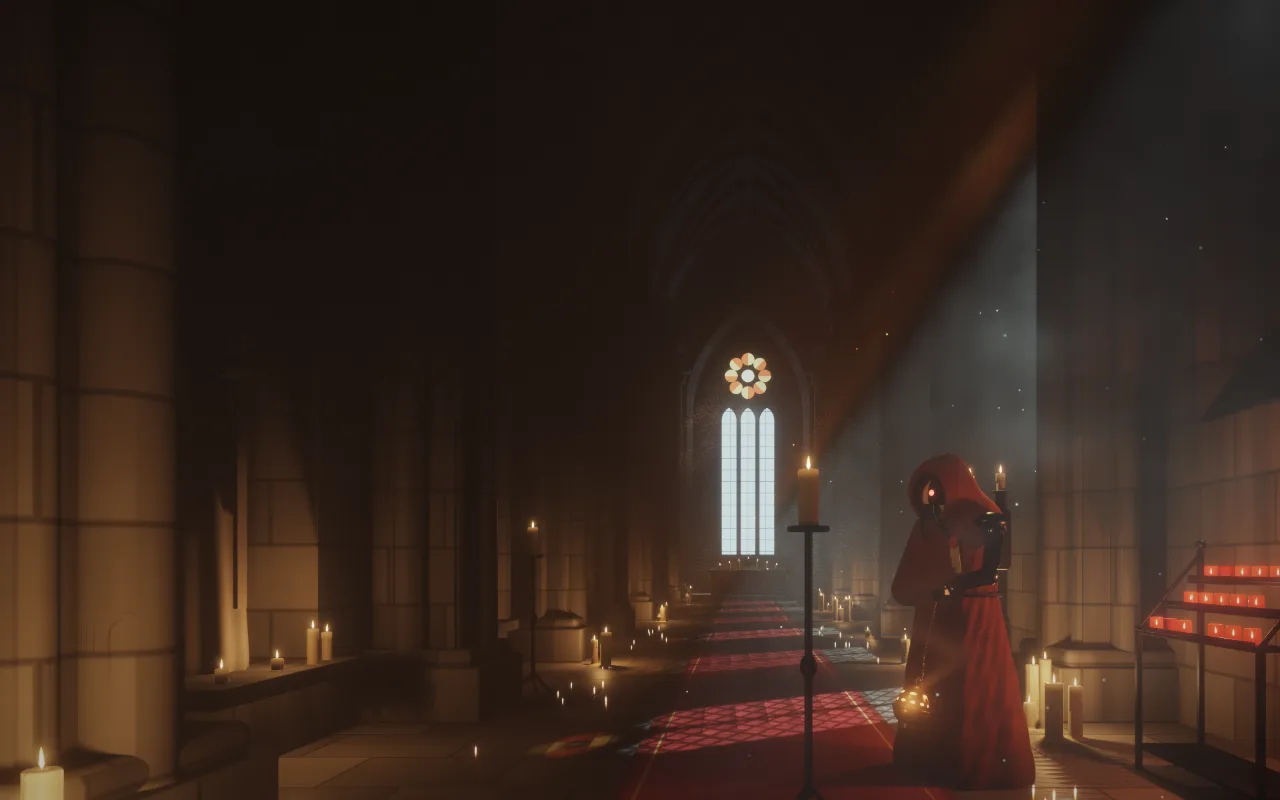
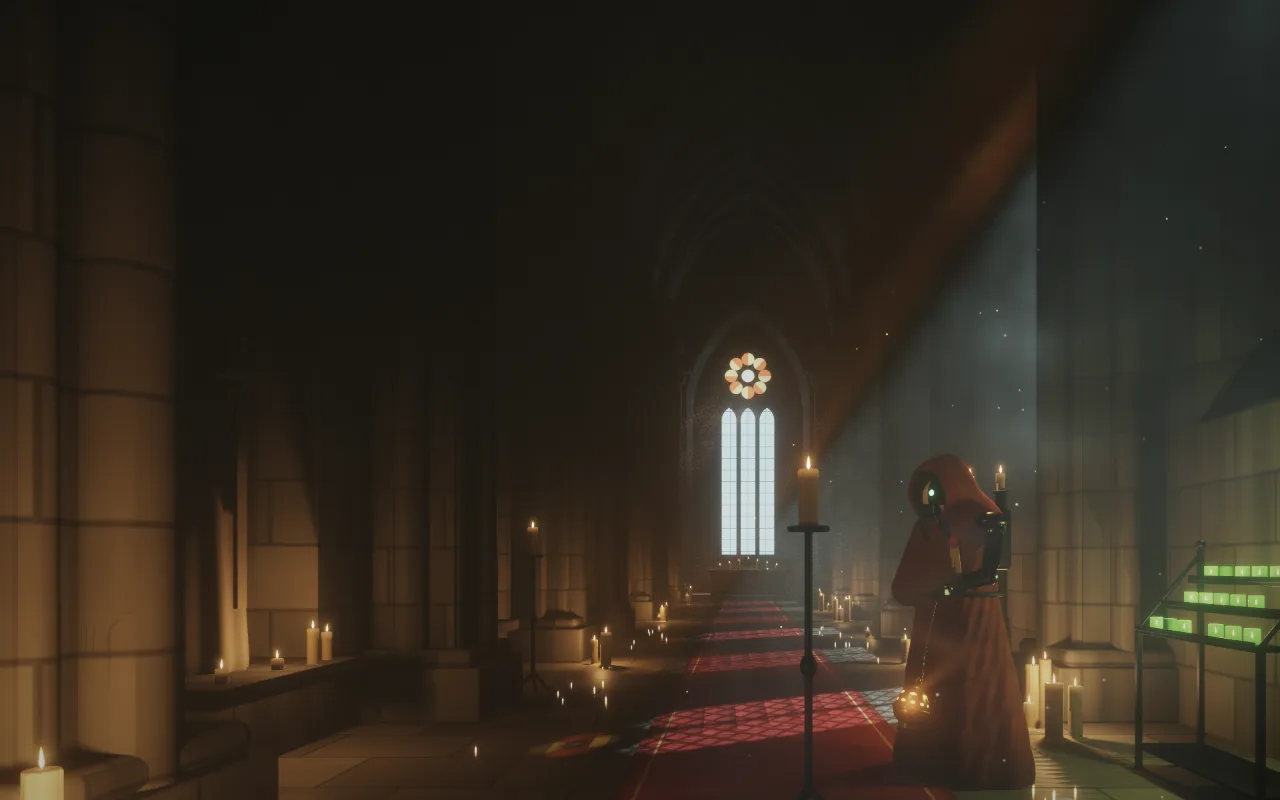
Switch the phosphor to green and render the hero images again
The votive cups and the servitor's optic in the hero images take the
phosphor colour, so the images were rendered again with the green palette.

Changed region(s): [[0.875, 0.6875, 1.0, 0.8125], [0.8438, 0.9688, 0.9375, 1.0], [0.75, 0.75, 0.7812, 0.7812]]

diff --git a/src/backdrop/scene.ts b/src/backdrop/scene.ts
@@ -90,7 +90,7 @@ export const enum Kind {
   Ledge = 1,
   /** On top of an iron pricket stand. */
   Stand = 2,
-  /** A tealight in a red glass cup on the votive rack. */
+  /** A tealight in a glass cup on the votive rack, tinted with the phosphor colour. */
   Cup = 3,
 }
 
@@ -206,7 +206,7 @@ const bayZ = (k: number) => HALL.z0 - (k + 0.5) * HALL.bay;
 /** Origin of the votive rack: the middle of its footprint, against the right wall. */
 const RACK = { x: 2.25, z: -4.15 };
 
-// The votive rack beside the servitor: three stepped tiers of red glass cups.
+// The votive rack beside the servitor: three stepped tiers of glass cups in the phosphor colour.
 {
   const cups: Omit<Candle, 'group'>[] = [];
   for (let tier = 0; tier < 3; tier++) {

diff --git a/src/press/materials.ts b/src/press/materials.ts
@@ -163,7 +163,7 @@ export function sealWax(): THREE.MeshPhysicalMaterial {
 
 /* ───────────── glass behind the print head's windows ───────────── */
 
-/** The windows in the print head glow red from inside, in the archive's phosphor colour. */
+/** The windows in the print head glow from inside in the archive's phosphor colour. */
 export function headGlass(colour: THREE.Color): THREE.MeshStandardMaterial {
   const mat = new THREE.MeshStandardMaterial({ color: 0x000000, roughness: 0.25, metalness: 0, emissive: colour, emissiveIntensity: 1 });
   return detailed(mat, {

diff --git a/src/press/machine.ts b/src/press/machine.ts
@@ -42,7 +42,7 @@ export interface Machine {
   stand?: THREE.Vector3;
   /** Where the wax seal's cord is tied: under the bearing on the top roll's right end. */
   seal?: THREE.Vector3;
-  /** The middle of the print head's windows, for their red light. */
+  /** The middle of the print head's windows, for their light. */
   head: THREE.Vector3;
   /** Where the sheet's left edge is in a roll's object space. */
   rollLeft: number;

diff --git a/src/config.ts b/src/config.ts
@@ -31,7 +31,7 @@ export const CREATOR = {
 };
 
 /** Which phosphor the screen and the page accent use. Both palettes are in src/styles/base.css. */
-export const THEME: { phosphor: 'red' | 'green' } = { phosphor: 'red' };
+export const THEME: { phosphor: 'red' | 'green' } = { phosphor: 'green' };
 
 export type LicenceId = 'personal' | 'merchant';
 
